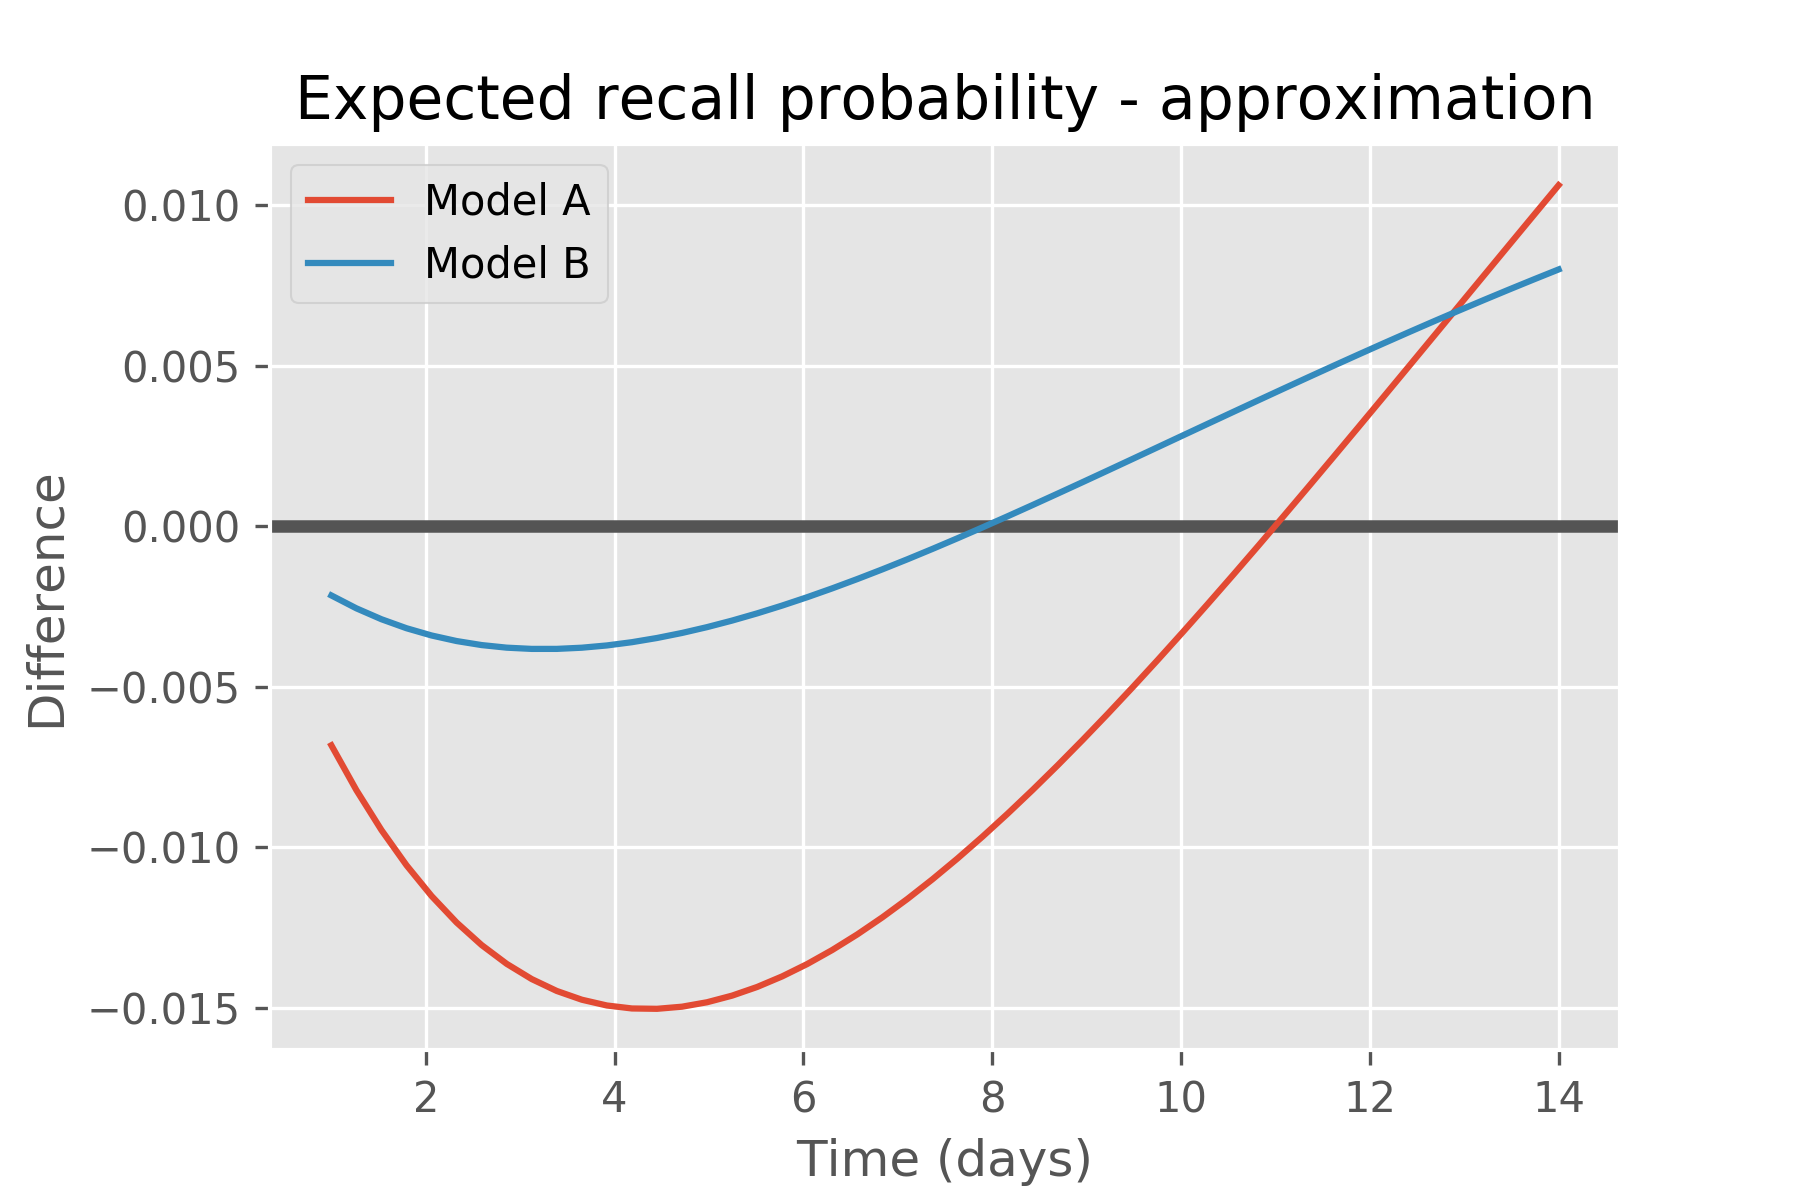
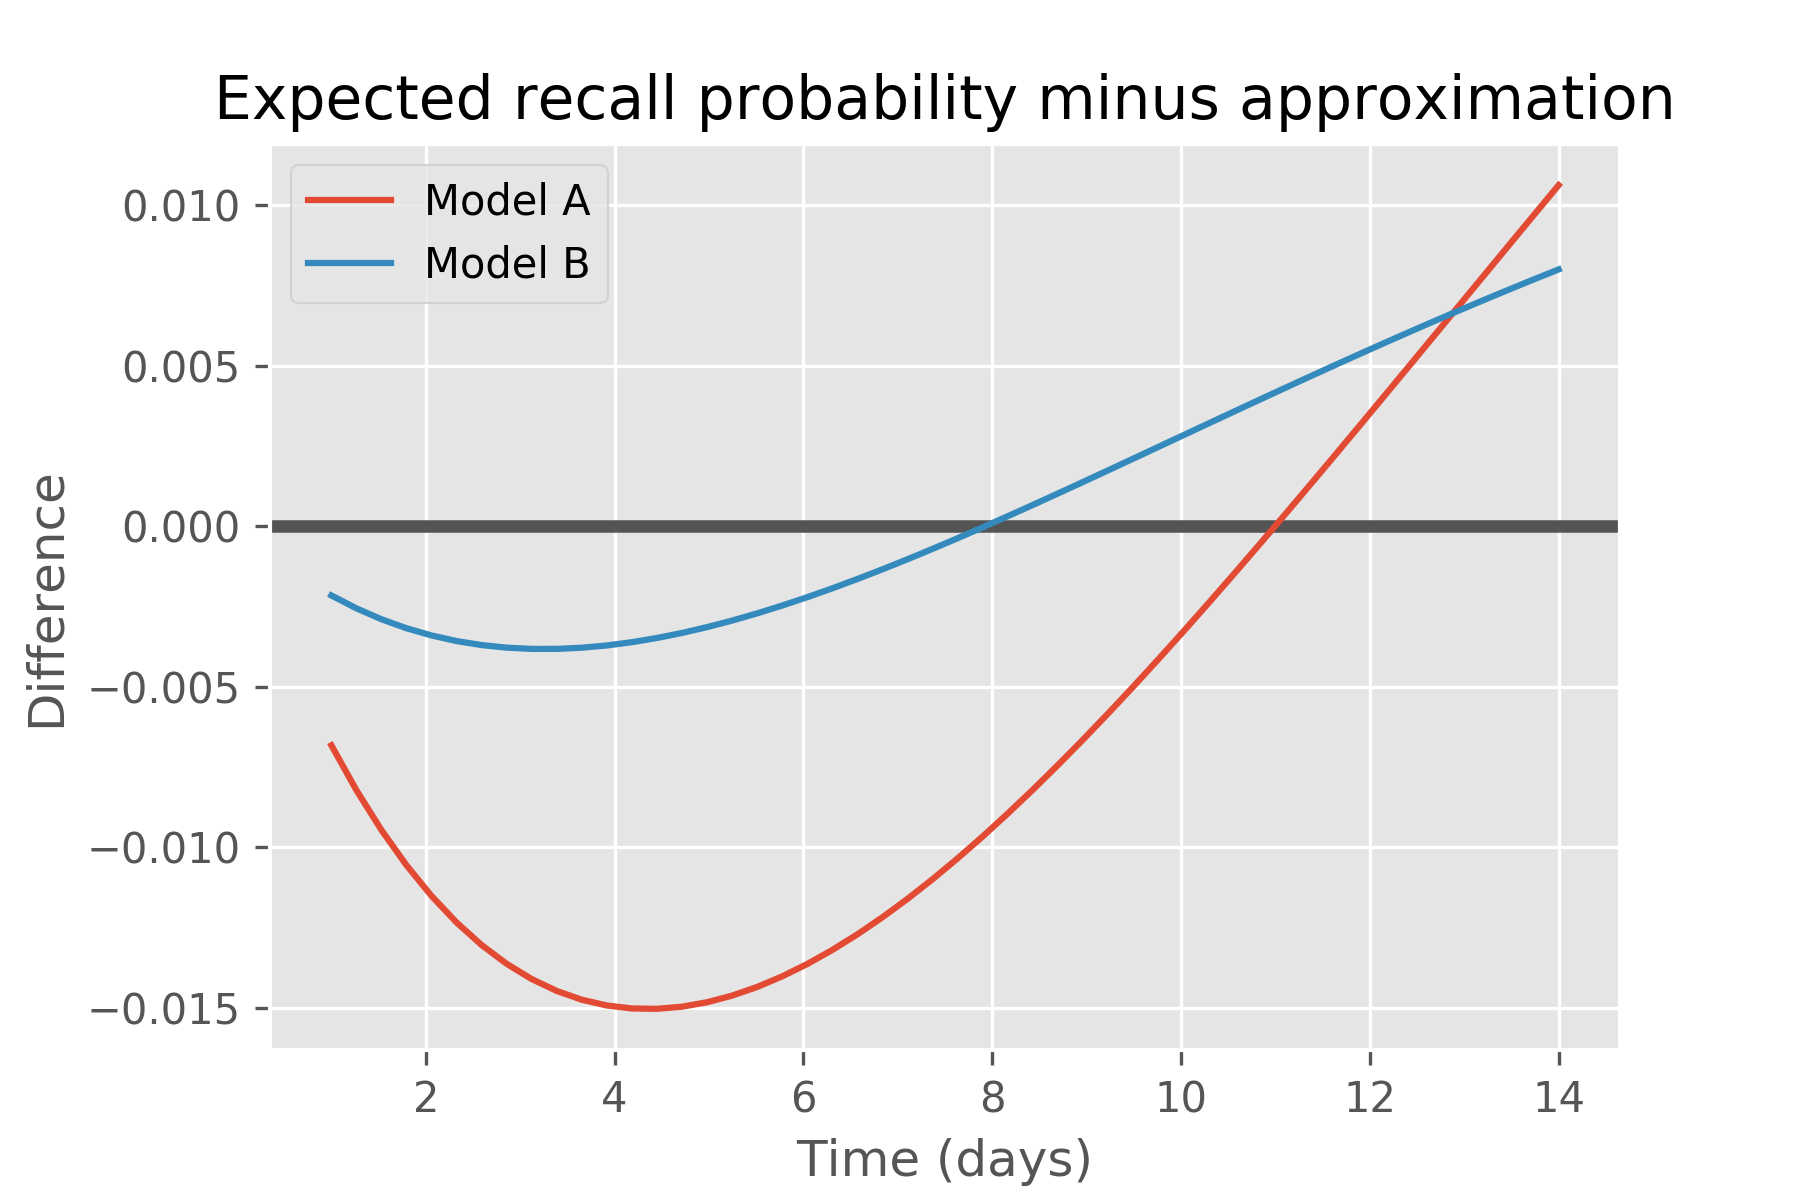
Minor improvement in plot title

Changed region(s): [[0.1244, 0.0617, 0.9333, 0.1233]]

diff --git a/index.html b/index.html
@@ -3316,7 +3316,7 @@ plt.gcf().subplots_adjust(left=<span class="hljs-number">0.15</span>)
 plt.legend(loc=<span class="hljs-number">0</span>)
 plt.xlabel(<span class="hljs-string">'Time (days)'</span>)
 plt.ylabel(<span class="hljs-string">'Difference'</span>)
-plt.title(<span class="hljs-string">'Expected recall probability - approximation'</span>)
+plt.title(<span class="hljs-string">'Expected recall probability minus approximation'</span>)
 plt.savefig(<span class="hljs-string">'figures/forgetting-curve-diff.svg'</span>)
 plt.savefig(<span class="hljs-string">'figures/forgetting-curve-diff.png'</span>, dpi=<span class="hljs-number">300</span>)
 plt.show()</code></pre>

diff --git a/README.md b/README.md
@@ -886,7 +886,7 @@ plt.gcf().subplots_adjust(left=0.15)
 plt.legend(loc=0)
 plt.xlabel('Time (days)')
 plt.ylabel('Difference')
-plt.title('Expected recall probability - approximation')
+plt.title('Expected recall probability minus approximation')
 plt.savefig('figures/forgetting-curve-diff.svg')
 plt.savefig('figures/forgetting-curve-diff.png', dpi=300)
 plt.show()
